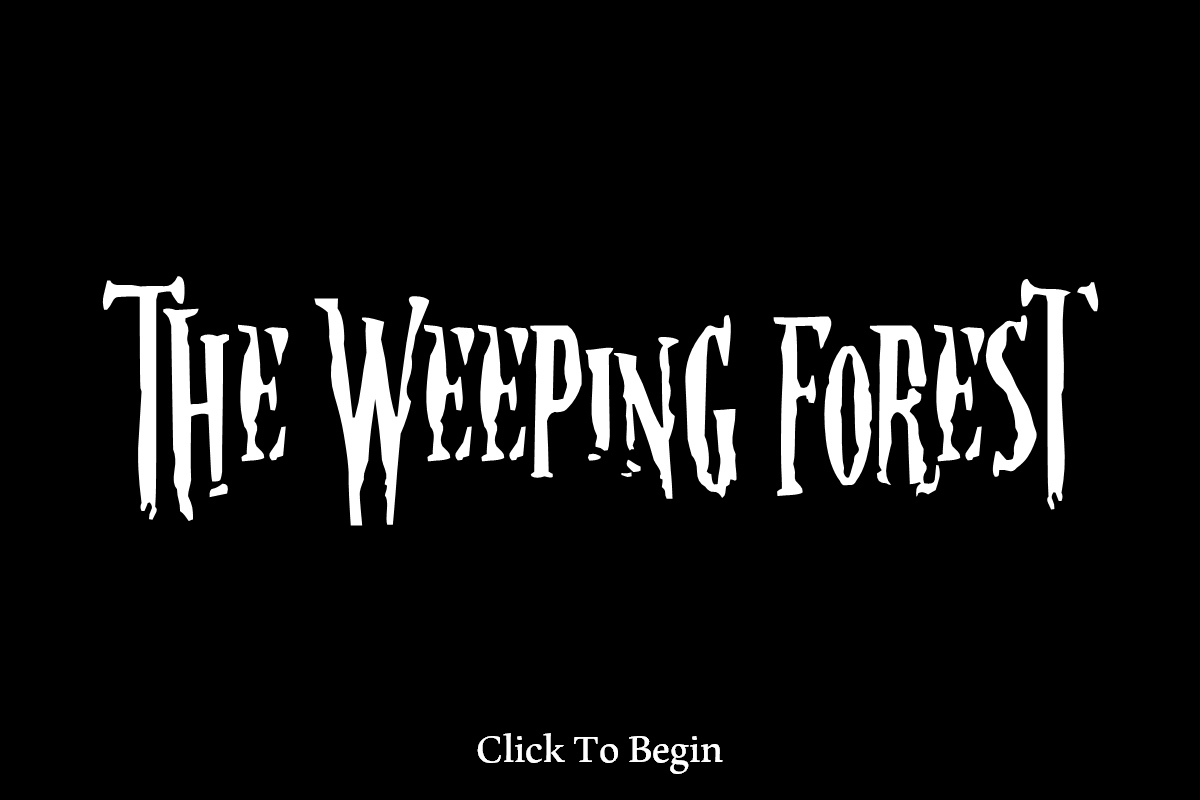
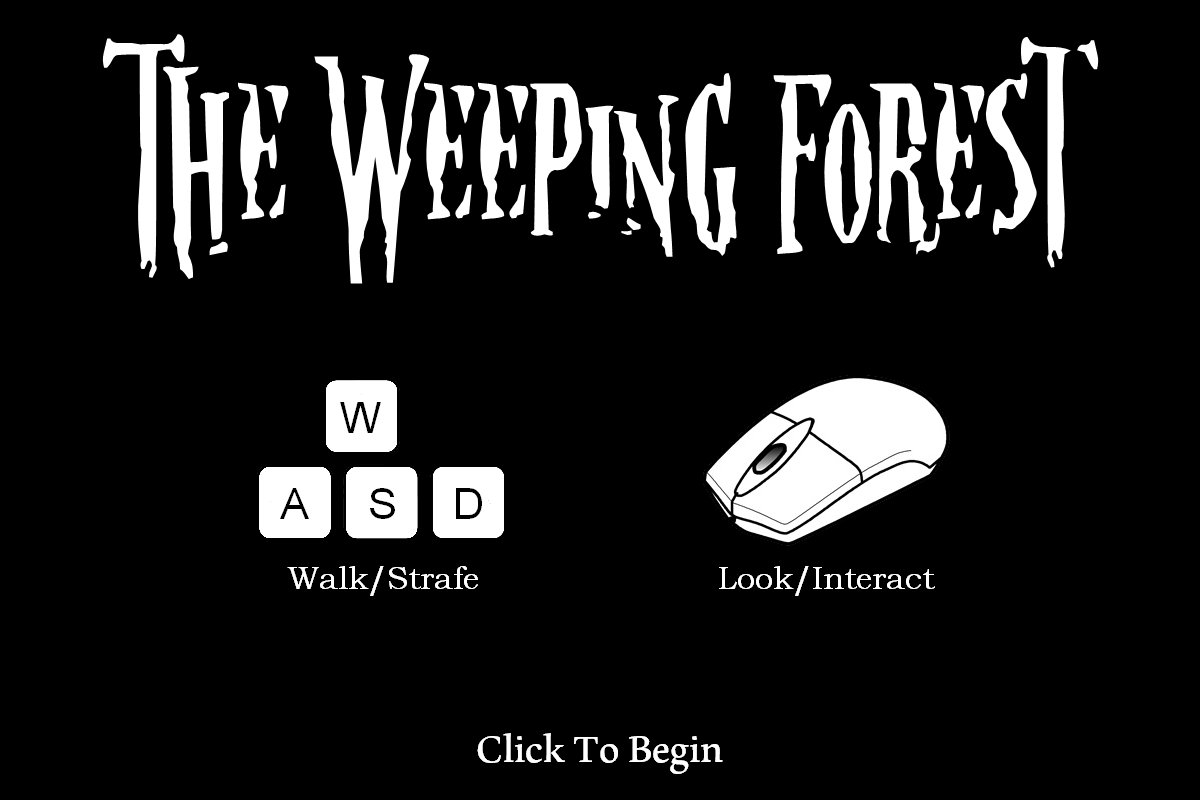
Final Update for CS688
Added instructions to the title page and lefty controls.

Changed region(s): [[0.0617, 0.0312, 0.925, 0.75], [0.5858, 0.7188, 0.7708, 0.75]]

diff --git a/main.js b/main.js
@@ -1064,7 +1064,7 @@ function create_noise() {
 			var elapsed = timer.getElapsedTime() - noise_start;
 
 			if (elapsed >= 15) {
-				location.reload(true);
+				location.reload();
 			}
 
 			var prob = Math.min(elapsed / 4,1);
@@ -1188,15 +1188,15 @@ function render() {
 	camera.pitch 	+= 	(dy * mouse_sensitivity);
 	
 	if ( !frozen ) {
-		if 	( 	keyboard.pressed("W") || 
-				keyboard.pressed("A") || 
-				keyboard.pressed("S") || 
-				keyboard.pressed("D")) {
+		if 	( 	keyboard.pressed("W") || keyboard.pressed("up")   ||
+				keyboard.pressed("A") || keyboard.pressed("left") ||
+				keyboard.pressed("S") || keyboard.pressed("down") ||
+				keyboard.pressed("D") || keyboard.pressed("right") ) {
 			FOOTSTEPS.play().fadeTo(FOOTSTEPS_VOLUME, 1000);
-			if 	( keyboard.pressed("W") ) 	{ walk_forward(distance, camera.yaw); }
-			if 	( keyboard.pressed("S") ) 	{ walk_backward(distance, camera.yaw); }
-			if 	( keyboard.pressed("A") ) 	{ strafe_left(distance, camera.yaw); }
-			if 	( keyboard.pressed("D") ) 	{ strafe_right(distance, camera.yaw); }
+			if 	( keyboard.pressed("W") || keyboard.pressed("up")) 		{ walk_forward(distance, camera.yaw); }
+			if 	( keyboard.pressed("S") || keyboard.pressed("down")) 	{ walk_backward(distance, camera.yaw); }
+			if 	( keyboard.pressed("A") || keyboard.pressed("left")) 	{ strafe_left(distance, camera.yaw); }
+			if 	( keyboard.pressed("D") || keyboard.pressed("right")) 	{ strafe_right(distance, camera.yaw); }
 		}
 		else {
 			FOOTSTEPS.fadeOut(1000);
